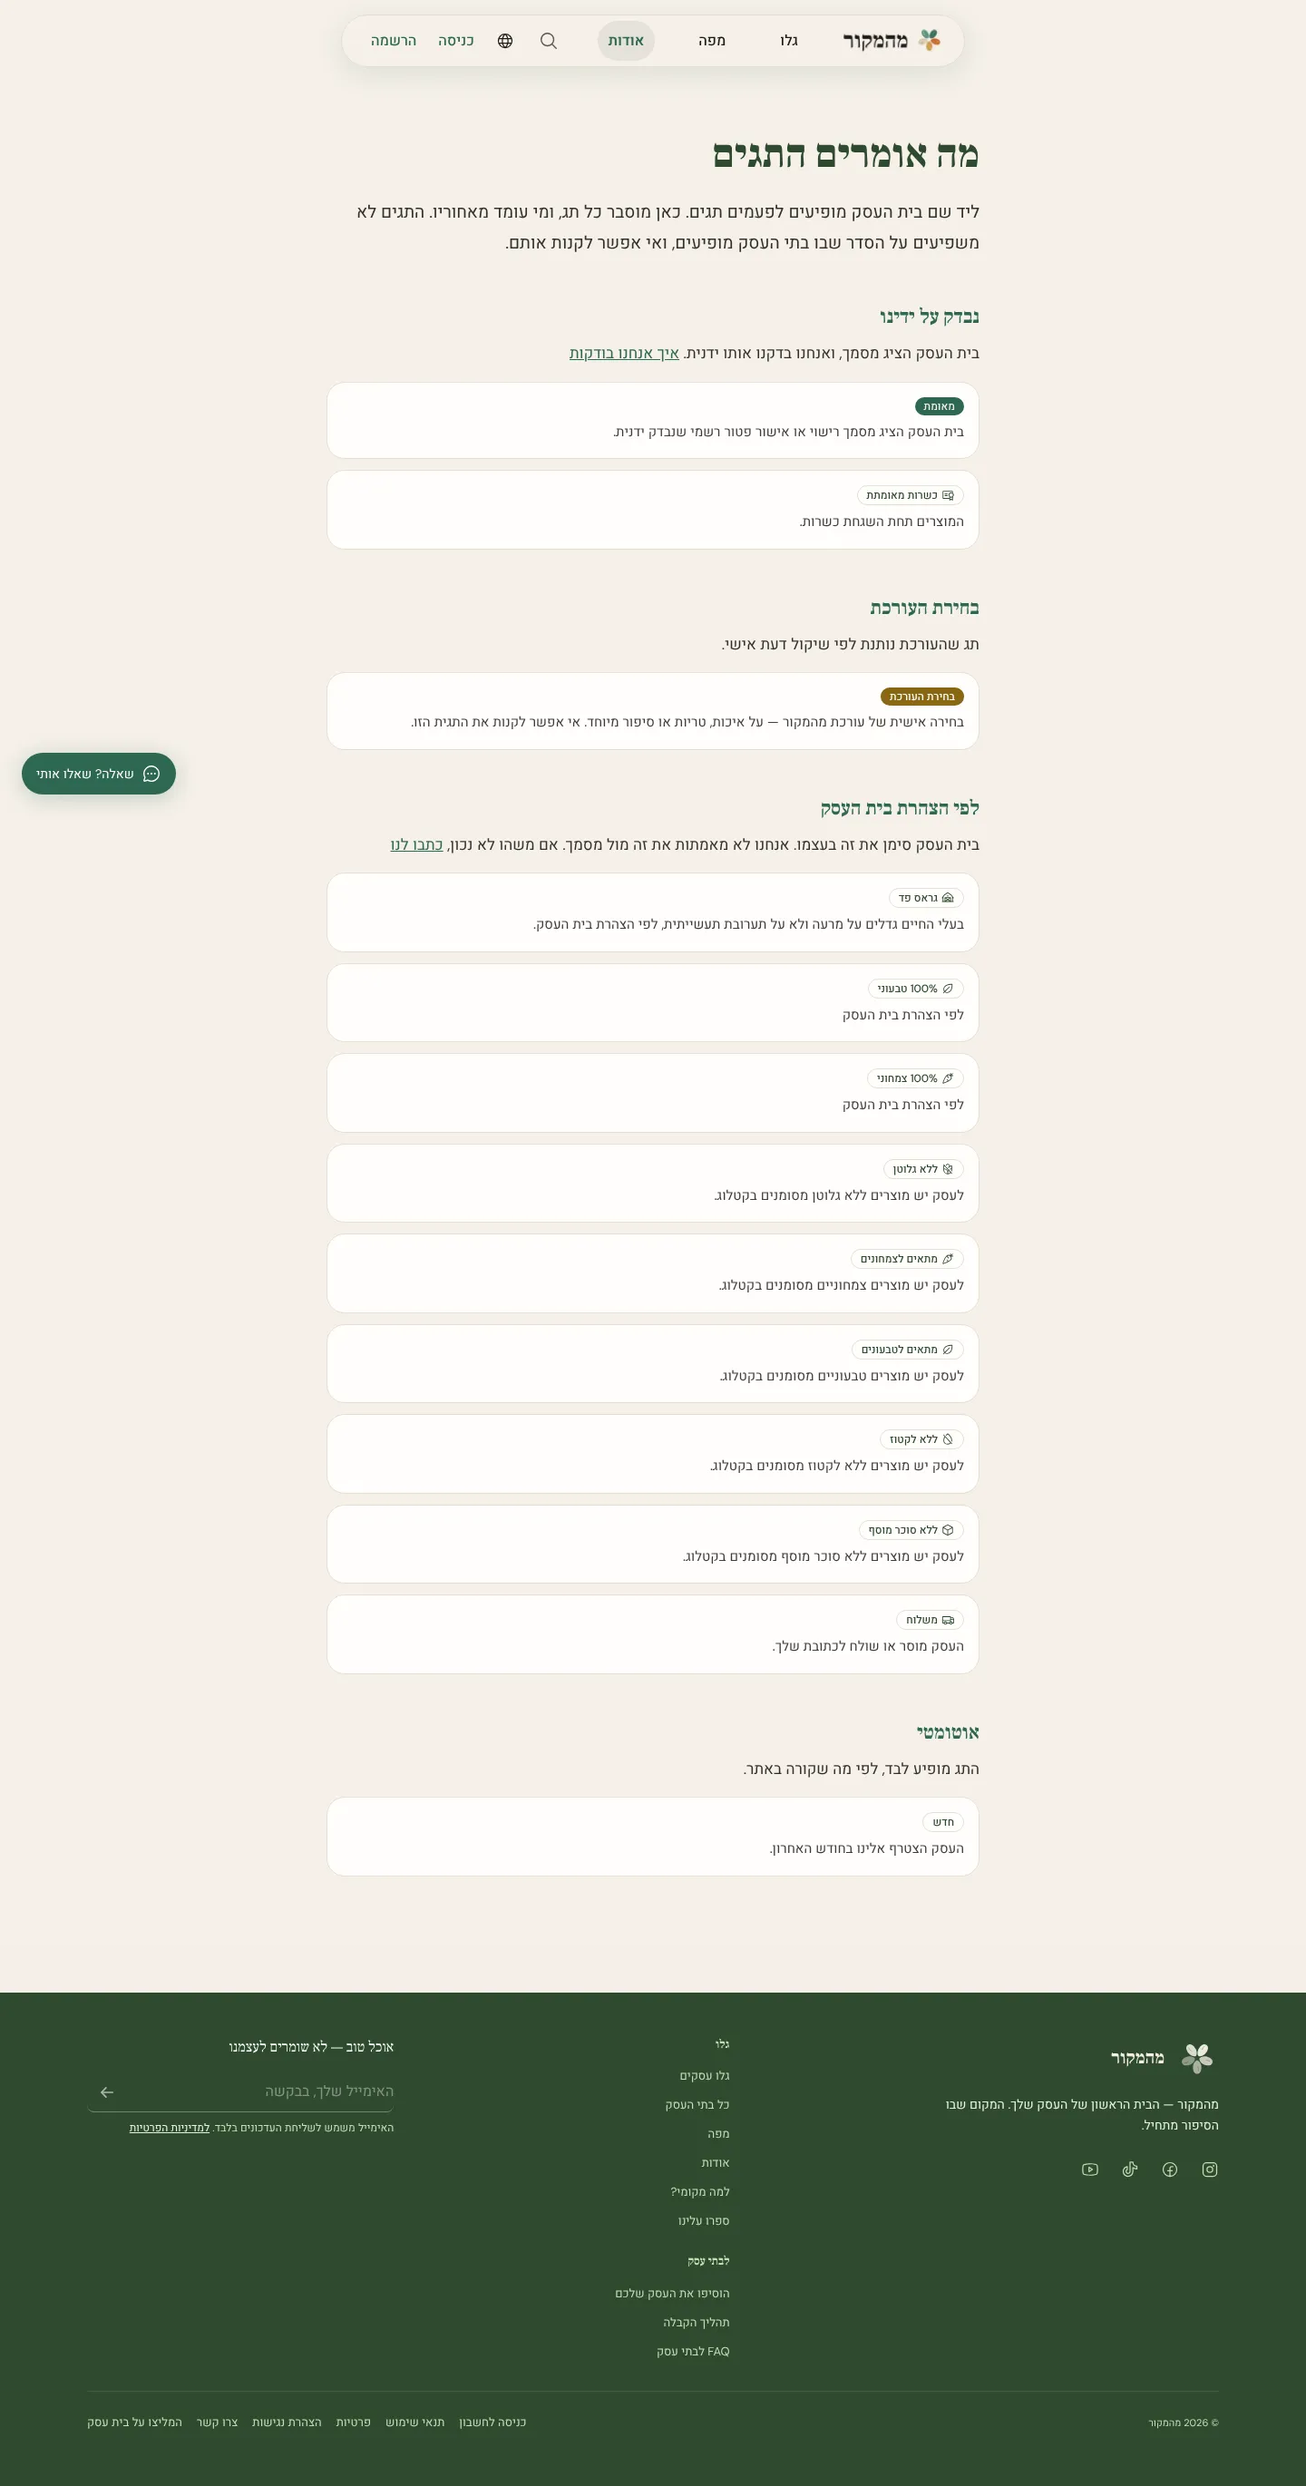
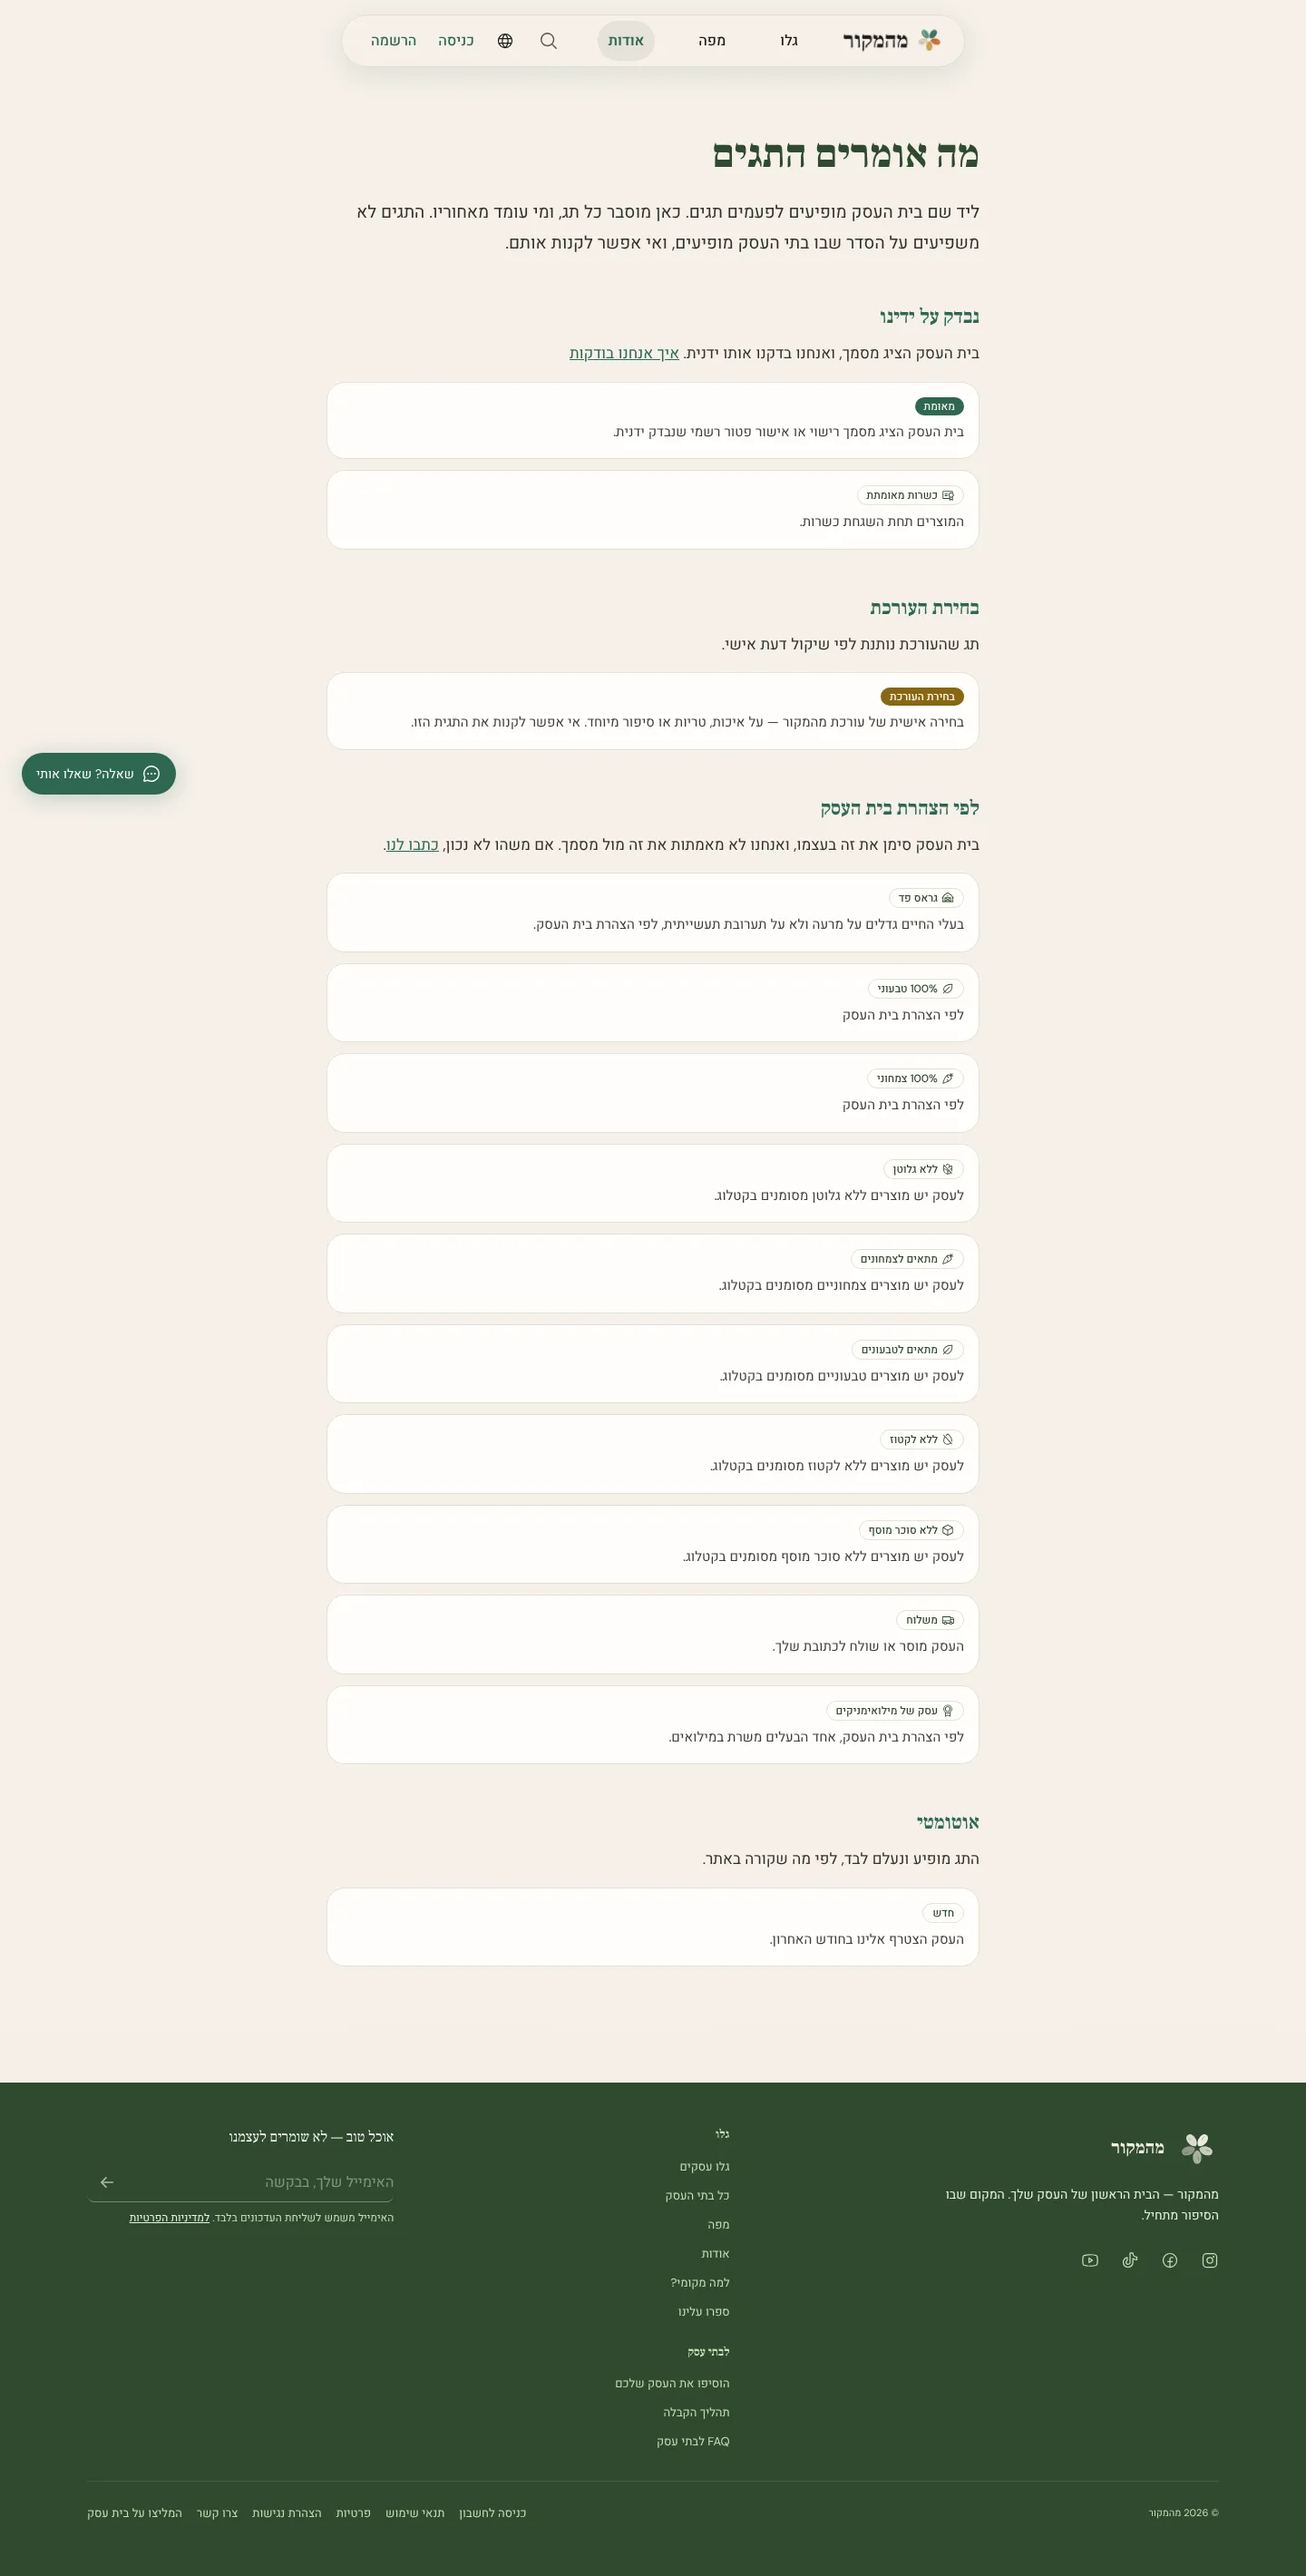
fix(about): badges page intros as single sentences with inline links (MEH-2701)
Wording follows the big-site pattern (Google identity attributes: say the
business added it; Airbnb/Etsy: say where a badge comes from and that it
updates on its own). Lead-in and link text now live in one t.rich string,
so no locale is left with a dangling clause (review finding on #4021).

Builder-Model: claude-opus-5-5

Claude-Session: https://claude.ai/code/session_01X8DSqVMD5nfpbxE3arhnco

diff --git a/frontend/app/[locale]/about/badges/BadgesExplainer.jsx b/frontend/app/[locale]/about/badges/BadgesExplainer.jsx
@@ -15,10 +15,12 @@ import { badgesByEvidence } from "@/lib/badges";
 import { badgeIcon } from "@/lib/chip-icons";
 import { COLOR_CLASSES } from "@/components/BadgeRow";
 
-// Optional link under a group's intro: [translation key, href].
+// Target of the <link> tag inside a group's intro, when it has one. The link
+// text lives inside the sentence (t.rich), so no locale is left with a
+// dangling lead-in.
 const GROUP_LINKS = {
-  "admin-verified": ["link_admin_verified", "/about/process"],
-  "self-declared": ["link_self_declared", "/contact"],
+  "admin-verified": "/about/process",
+  "self-declared": "/contact",
 };
 
 export default function BadgesExplainer() {
@@ -36,7 +38,7 @@ export default function BadgesExplainer() {
         </header>
 
         {groups.map(({ evidence, badges }) => {
-          const link = GROUP_LINKS[evidence];
+          const href = GROUP_LINKS[evidence];
           return (
             <section
               key={evidence}
@@ -48,15 +50,13 @@ export default function BadgesExplainer() {
                 {t(`groups.${evidence}.heading`)}
               </h2>
               <p className="mb-4 text-[16px] sm:text-[17px] leading-[1.8] text-text/90">
-                {t(`groups.${evidence}.intro`)}
-                {link && (
-                  <>
-                    {" "}
-                    <Link href={link[1]} className="underline text-primary hover:opacity-90 focus-ring rounded-sm">
-                      {t(link[0])}
+                {t.rich(`groups.${evidence}.intro`, {
+                  link: (chunks) => (
+                    <Link href={href} className="underline text-primary hover:opacity-90 focus-ring rounded-sm">
+                      {chunks}
                     </Link>
-                  </>
-                )}
+                  ),
+                })}
               </p>
               <ul className="grid gap-3">
                 {badges.map((badge) => {

diff --git a/frontend/__tests__/BadgesExplainer.test.jsx b/frontend/__tests__/BadgesExplainer.test.jsx
@@ -68,6 +68,15 @@ describe("BadgesExplainer (MEH-2701)", () => {
     }
   });
 
+  it("renders the in-sentence links with their targets", () => {
+    renderPage();
+    const verified = screen.getByTestId("badges-group-admin-verified");
+    expect(within(verified).getByRole("link").getAttribute("href")).toBe("/about/process");
+    const declared = screen.getByTestId("badges-group-self-declared");
+    expect(within(declared).getByRole("link").getAttribute("href")).toBe("/contact");
+    expect(declared.textContent).not.toContain("<link>");
+  });
+
   it("has a heading and intro for every group in he and en", async () => {
     const en = (await import("@/messages/en.json")).default;
     for (const ev of BADGE_EVIDENCE_ORDER) {
